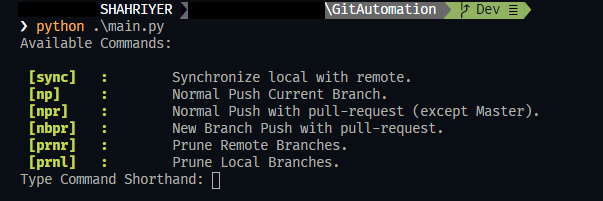
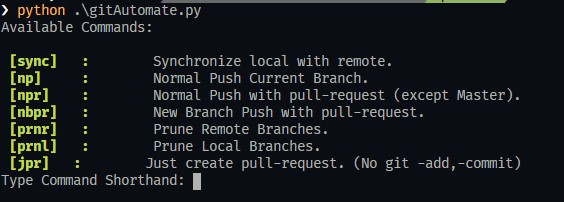
Readme update

diff --git a/Readme.md b/Readme.md
@@ -12,7 +12,7 @@ pip install click
 
 ## Alter Configurations
 
-> In main.py you can setup default variable at top starting with "\_"
+> In gitAutomate.py you can setup default variable at top starting with "\_"
 
 ```python
 _remote = "your remote name"
@@ -20,23 +20,19 @@ _remote = "your remote name"
 
 ## Usage
 
-### <span style="color:#CC3333">**Note: Make Sure you have changes to commit; On 🚫"Clean working dir"🚫 commands will not work**<span>
-
-> Add git.py , gitAutomate.py and main.py at your project root and Update your gitignore
+> Add gitAutomate.py at your project root and Update your gitignore
 
 ```
 __pycache__
-git.py
 gitAutomate.py
-main.py
 ```
 
-> Run the main.py from your project root ( **python -u .\main.py** )
+> Run the gitAutomate.py from your project root ( **python -u .\gitAutomate.py** )
 
 > You can run the script with choice & argument (remote)
 
 ```
-python .\main.py --choice=npr origin
+python .\gitAutomate.py --choice=npr origin
 ```
 
 ![Commands](./assets/Annotation.jpg)
